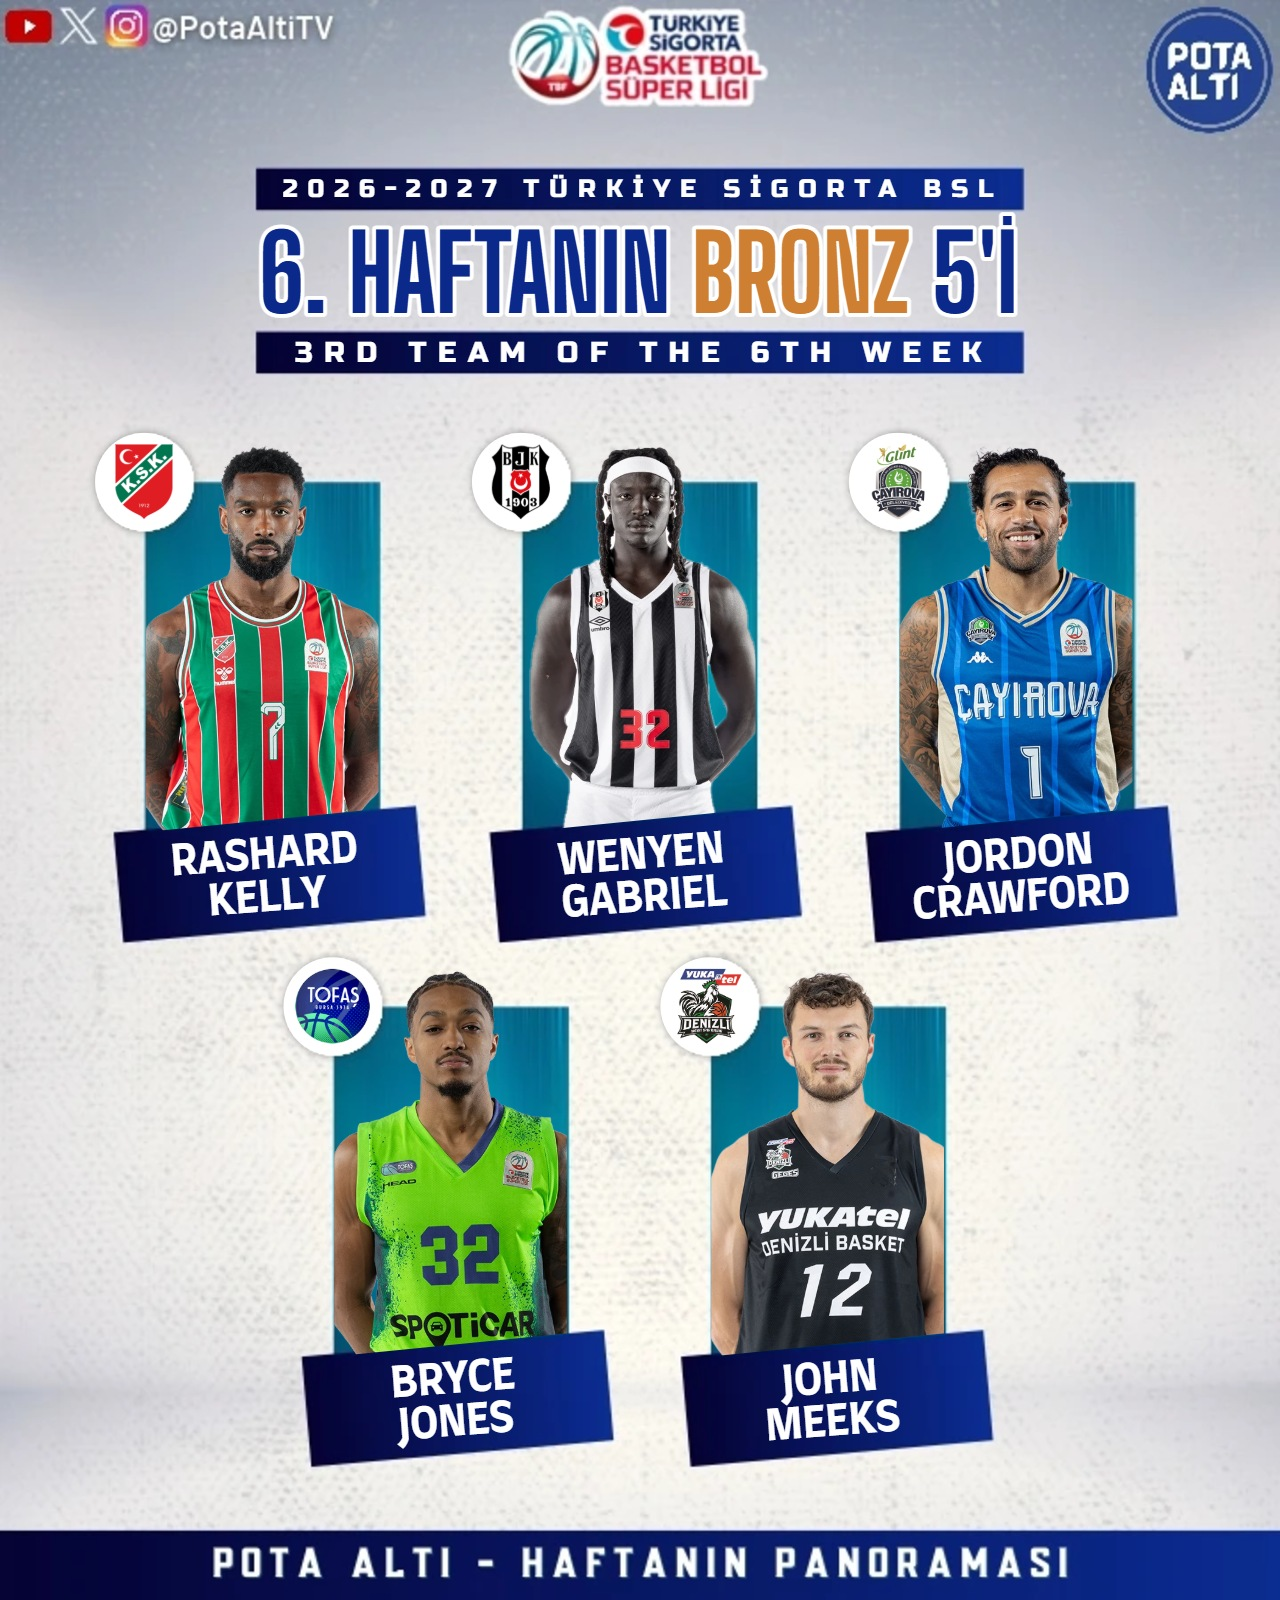
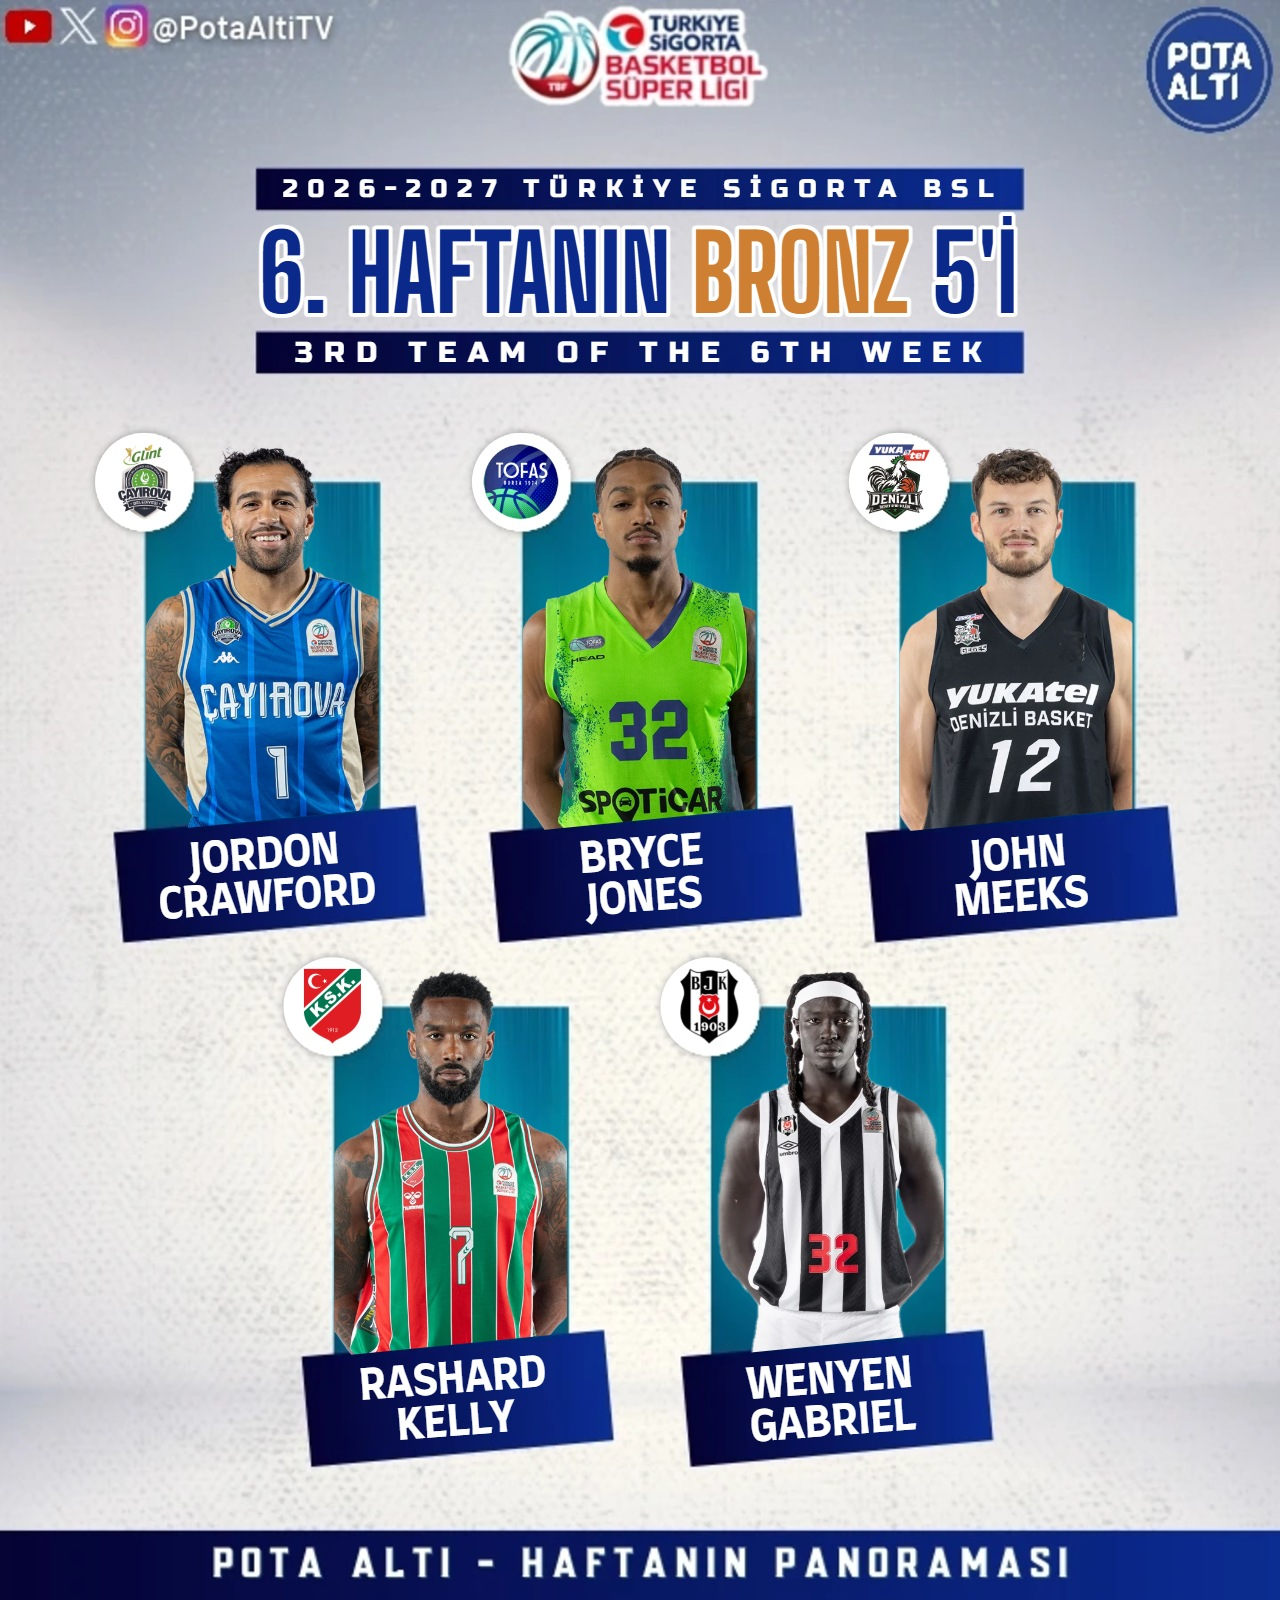
BSL 5'leri: üst sırada 3 Arka, alt sırada 2 Ön; 6. hafta 5'leri yenilendi

diff --git a/site/app.js b/site/app.js
@@ -545,6 +545,7 @@ async function odulHaftasi(h) {
 //   en iyi yerli / yabancı (bir oyuncu tek bir tekli ödül alır; tekli ödül alan 5'lere de girebilir)
 //   Altın, Gümüş, Bronz 5: kalanlardan en iyi 3 Arka + 2 Ön · Mansiyon 5: kalanlardan en iyi 5, hepsi aynı mevkiden olamaz
 //   Bir 5'te aynı takımdan en fazla 2 oyuncu (sıradaki takımı dolmamış oyuncu girer)
+//   Görselde üst sıradaki 3 kart Arka, alttaki 2 kart Ön oyunculardır (Mansiyon'da da önce Arkalar, sonra Önler; her biri VP sırasıyla)
 function bslListesi(oyuncular) {
   const sira = [...oyuncular].sort((a, b) => b.vp - a.vp || b.sayi - a.sayi);
   const notlar = [], verilen = new Set(), satirlar = [];
@@ -558,6 +559,7 @@ function bslListesi(oyuncular) {
   const kalan = sira.filter(o => o.vp > 0);
   const al = o => kalan.splice(kalan.indexOf(o), 1)[0];
   const mevkisi = o => o.mevki ?? 'arka';
+  const dizilis = g => [...g.filter(o => mevkisi(o) === 'arka'), ...g.filter(o => mevkisi(o) !== 'arka')];
   const takimDolu = (secilen, o) => secilen.filter(x => x.takim === o.takim).length >= 2;
   const gruplar = [];
   for (let i = 0; i < 3; i++) {
@@ -566,7 +568,7 @@ function bslListesi(oyuncular) {
       if (secilen.length === 5) break;
       if (kota[mevkisi(o)] > 0 && !takimDolu(secilen, o)) { secilen.push(o); kota[mevkisi(o)]--; }
     }
-    gruplar.push(secilen.map(al));
+    gruplar.push(dizilis(secilen.map(al)));
   }
   const mansiyon = [];
   for (const o of kalan) if (mansiyon.length < 5 && !takimDolu(mansiyon, o)) mansiyon.push(o);
@@ -575,7 +577,7 @@ function bslListesi(oyuncular) {
     const diger = kalan.find(o => mevkisi(o) !== mevkisi(son) && !takimDolu(mansiyon, o));
     mansiyon.push(diger ?? son);
   }
-  gruplar.push(mansiyon);
+  gruplar.push(dizilis(mansiyon));
   for (const o of oyuncular) {
     const secildi = gruplar.flat().includes(o) || verilen.has(o.id);
     if (secildi && !o.rehberde) notlar.push(`${o.ad} (${baslik(o.takim)}): oyuncu listesinde yok, yerli/yabancı ve mevki bilinmiyor`);
